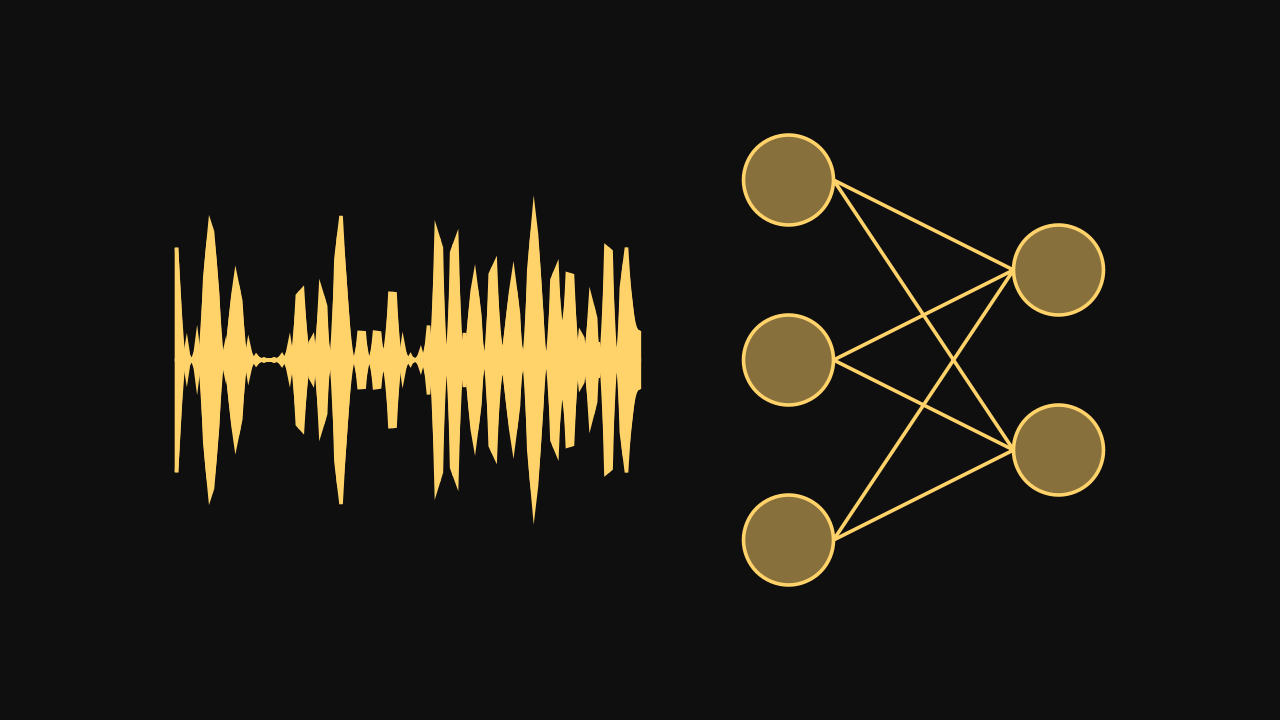
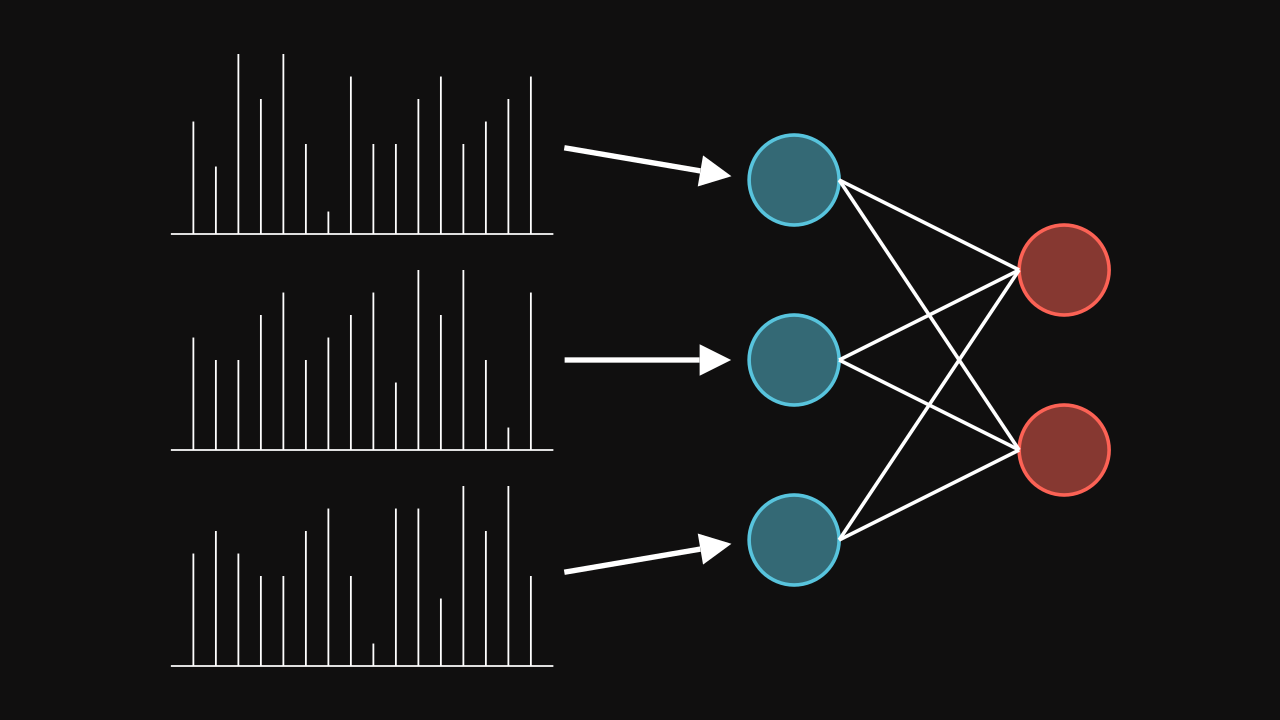
Updated spiking neural network image

diff --git a/manim/signal.py b/manim/signal.py
@@ -16,17 +16,18 @@ X = vec3(1, 0, 0)
 Y = vec3(0, 1, 0)
 Z = vec3(0, 0, 1)
 
-def neural_network(radius=0.1, color=WHITE, connection_color=WHITE):
+
+def neural_network(radius=0.1):
     r = radius
-    circle_ref = lambda: Circle(r, color=color, fill_opacity=0.5)
+    circle_ref = lambda color: Circle(r, color=color, fill_opacity=0.5)
     dy = frame_height * r * 0.5
     dx = dy * 1.5
     dirs = [O, dy * Y, -dy * Y, dx * X + 0.5 * dy * Y, dx * X - 0.5 * dy * Y]
-    circles = [circle_ref().shift(d) for d in dirs]
-    connections = [(0, 3), (0, 4), (1, 3), (1, 4), (2, 3), (2, 4)]
-    lines = [
-        Line(dirs[a] + r * X, dirs[b] - r * X, color=connection_color) for a, b in connections
+    circles = [
+        circle_ref(color=(BLUE if i < 3 else RED)).shift(d) for i, d in enumerate(dirs)
     ]
+    connections = [(0, 3), (0, 4), (1, 3), (1, 4), (2, 3), (2, 4)]
+    lines = [Line(dirs[a] + r * X, dirs[b] - r * X) for a, b in connections]
     barycenter = reduce(add, dirs) / len(dirs)
     return VGroup(*circles, *lines).shift(-barycenter)
 
@@ -43,7 +44,9 @@ class Impulse(Scene):
         m = (f2(T_END) - f1(T_START)) / (T_END - T_START)
         p = f1(T_START) - m * T_START
         impulse_graph1 = FunctionGraph(f1, x_range=[0, T_START], color=RED)
-        impulse_graph2 = FunctionGraph(lambda t: m * t + p, x_range=[T_START, T_END], color=RED)
+        impulse_graph2 = FunctionGraph(
+            lambda t: m * t + p, x_range=[T_START, T_END], color=RED
+        )
         impulse_graph3 = FunctionGraph(f2, x_range=[T_END, 10], color=RED)
 
         threshold = DashedLine(-Y, 6 * X - Y, dash_length=0.5)
@@ -57,18 +60,25 @@ class Impulse(Scene):
         t2 = Text("Resting potential", font_size=28).next_to(resting_potential, DOWN)
         t3 = Text("Time (ms)", font_size=28).next_to(axes, DOWN)
 
-        impulse = VGroup(impulse_graph1, impulse_graph2, impulse_graph3).shift(-5.7 * X - 0.5 * Y)
+        impulse = VGroup(impulse_graph1, impulse_graph2, impulse_graph3).shift(
+            -5.7 * X - 0.5 * Y
+        )
         self.add(axes, mt1, mt2, mt3, threshold, resting_potential, t1, t2, t3)
         self.play(Create(impulse), run_time=3)
 
 
 class RandomSignal(Scene):
     def construct(self):
-        nn = neural_network(0.5, MYYELLOW, MYYELLOW)
-        ax = Axes()
-        signal = ax.plot(lambda _: 2 * random() if random() > 0.5 else 0, x_range=[0, 6], color=MYYELLOW)
-        area = ax.get_area(signal, [0, 6], color=MYYELLOW, opacity=1)
-        sym = lambda obj: obj.copy().apply_matrix(mat3(X, -Y, Z))
-        full_signal = VGroup(signal, area, sym(signal), sym(area))
-        objs = VGroup(full_signal.shift(-6 * X), nn.shift(2 * X))
+        nn = neural_network(0.5)
+        dy = frame_height * 0.6 * 0.5
+        signal = VGroup(
+            *[
+                SVGMobject(f"figures/signal{i + 1}.svg").shift((1 - i) * dy * Y)
+                for i in range(3)
+            ]
+        )
+        dy_nn = frame_height * 0.5 * 0.5
+        arrows = VGroup(*[Arrow(start= -2 * X + (1 - i) * dy * Y, end=0.35 * X + (1 - i) * dy_nn * Y) for i in range(3)])
+        objs = VGroup(signal.shift(-4 * X), nn.shift(2 * X), arrows)
         self.add(objs.shift(-objs.get_center()))
+        self.add(signal)
